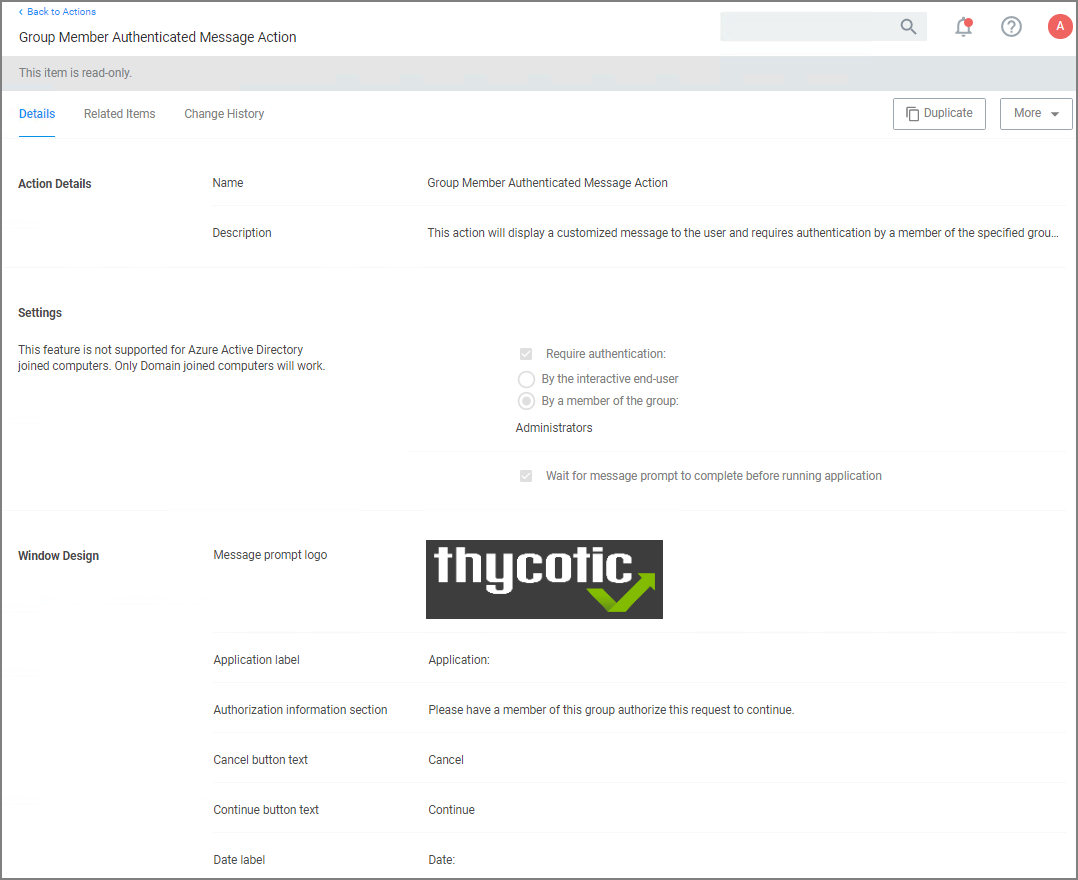
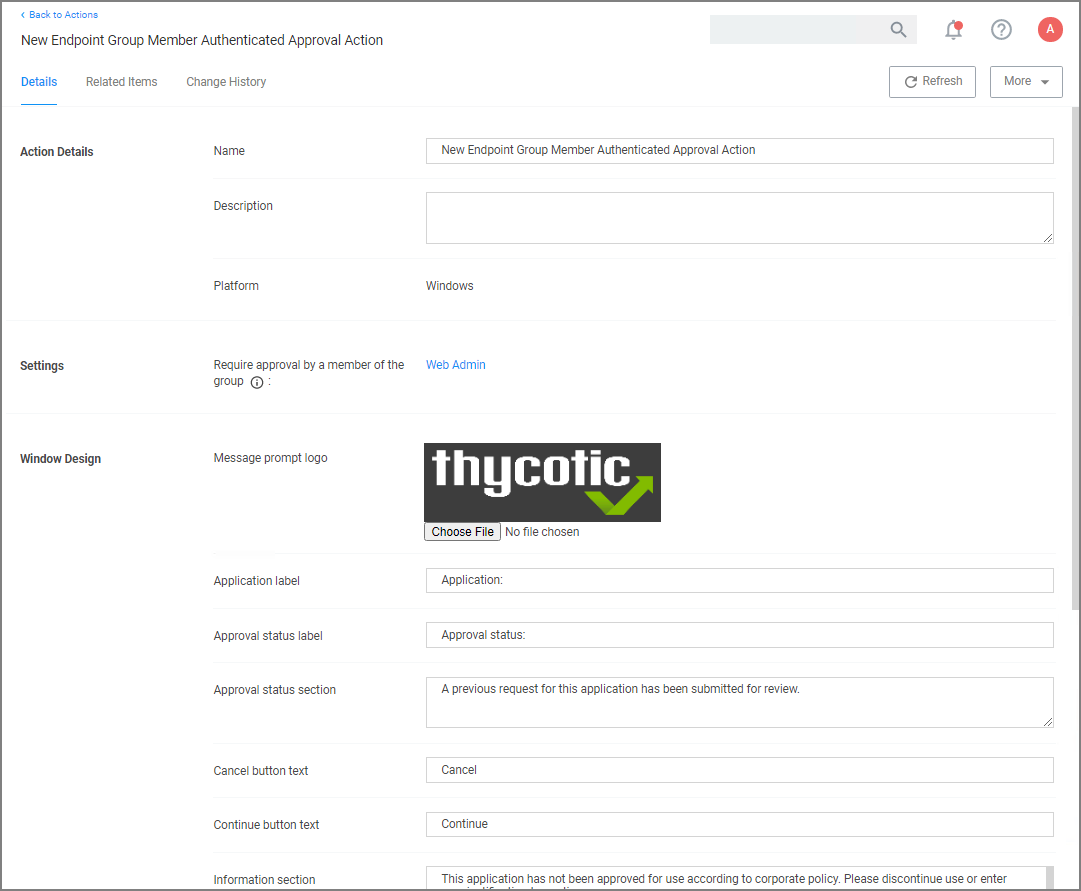
#202660: added topic on Group Member Approval Action to actions section and edited previously committed changes to the ServiceNow procedure to correctly reflect Endpoint Group Member Approval Action setup steps.

diff --git a/admin/config/foreign-systems/third-party/set-up-servicenow.md b/admin/config/foreign-systems/third-party/set-up-servicenow.md
@@ -11,7 +11,7 @@ Here are the steps to integrate Workflow between your ServiceNow Ticketing Syste
    * Web Service Admin (`web_service_admin`) and
    * Approval Admin (`approval_admin`).
    * For ServiceNow MID Server environments, the `mid_server` role permission also needs to be added to the account.
-   * For Group Member Approval: Adding the task __Create ServiceNow Request Items__ requires temporary __admin__ credentials for the ServiceNow instance. Once those items are created, the user does not need admin access anymore.
+   * For Endpoint Group Member Approval: Adding the task __Create ServiceNow Request Items__ requires temporary __admin__ credentials for the ServiceNow instance. Once those items are created, the user does not need admin access anymore.
 
    Refer to [ServiceNow product documentation, specifically Base System Roles](https://docs.servicenow.com/bundle/geneva-servicenow-platform/page/administer/roles/reference/r_BaseSystemRoles.html).
 1. Verify that the ServiceNow connector is installed for your Privilege Manager Cloud instance:
@@ -103,19 +103,22 @@ You need to create an action and attach it to a policy to manage what events you
 
 Policies also automatically update according to a schedule.
 
-### Using a Group Member Authenticated Message Action
+### Using an Endpoint Group Member Authenticated Message Action
 
 This action can be used for _over the shoulder_ approvals, where a supervisor approves access by authentication on the user's endpoint system.
 
 1. Navigate to __Admin | Actions__.
-1. Search and select __Group Member Authenticated Message Action__.
+1. Click __Create__.
+   1. On the __Create Action__ modal from the __Platform__ drop-down select __Windows__.
+   1. From __Type__ drop-down select __Endpoint Group Member Authenticated Approval Action__.
+   1. Enter a meaningful __Name__ and __Description__.
+   1. From the __Approval Group__ drop-down, select the group membership of the approver.
 
-   ![over shoulder approval action](images/servicenow/over-shoulder-1.png "Group Member Authenticated Message Action")
-1. Click __Duplicate__.
-1. Name your new action (_Endpoint Group Member Authenticated Approval Action_) and click __Create__.
-1. Customize the Action based on your specific business requirements.
-1. Verify the __By the member of the group:__ is active and a group is listed below the button.
-1. Click __Save Changes__.
+      ![create over shoulder approval action](images/servicenow/over-shoulder.png "Endpoint Group Member Authenticated Message Action")
+   1. Click __Create__.
+
+   ![over shoulder approval action](images/servicenow/over-shoulder-1.png "New Endpoint Group Member Authenticated Message Action")
+1. Under Settings verify the __Require approval by a member of the group:__ contains the correct group. If you ever need to change it, come back to this page and click the group name to access the change modal.
 1. Navigate to your computer group's __Application Policies__, click __Create Policy__ or find an existing policy that you want to use for ServiceNow Approvals.
 1. Under the __Actions__ section, search for and add the action you previously created.
 1. Click __Save Changes__.

diff --git a/admin/actions/group-member-approvals.md b/admin/actions/group-member-approvals.md
@@ -1,0 +1,24 @@
+[title]: # (Group Member Approval)
+[tags]: # (action)
+[priority]: # (5)
+# Group Member Approval Action
+
+This action can be used for approvals that are based on a group membership authentication of the approver.
+
+1. Navigate to __Admin | Actions__.
+1. Search and select __Group Member Authenticated Message Action__.
+1. Click __Duplicate__.
+1. Name your new action and click __Create__.
+
+   ![group approval action](images/group-member-appr.png "Group Member Authenticated Message Action")
+1. Customize the Action based on your specific business requirements.
+1. Verify the __By the member of the group:__ is active and a group is listed below the button. If you ever need to change it, come back to this page and click the group name to access the change modal.
+1. Click __Save Changes__.
+1. Navigate to your computer group's __Application Policies__, click __Create Policy__ or find an existing policy that you want to use for these approvals.
+1. Under the __Actions__ section, search for and add the action you previously created.
+1. Click __Save Changes__.
+1. Click the __i__ next to __Deployment__ and select __Resource and Collection Targeting Update__ to immediately send the policy to your endpoint agents.
+
+Policies also automatically update according to a schedule.
+
+Also refer to [Using an Endpoint Group Member Authenticated Message Action](../config/foreign-systems/third-party/set-up-servicenow.md) for details on using a similar action for _over-the-shoulder_ approvals with a ServiceNow systems integration.
